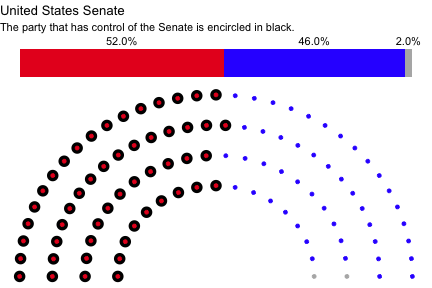
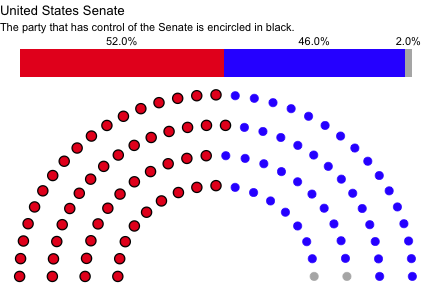
add size to geom_parliament_seats() parameters

diff --git a/README.md b/README.md
@@ -185,8 +185,8 @@ australia <- election_data %>%
 
 ```r
 au_rep <-ggplot(australia, aes(x, y, colour = party_short)) +
-  geom_parliament_seats() + 
-  geom_highlight_government(government == 1, colour = "pink") + 
+  geom_parliament_seats(size = 3.5) + 
+  geom_highlight_government(government == 1, colour = "pink", size = 5) + 
   draw_majoritythreshold(n = 76, 
                          label = TRUE, 
                          linesize = 0.5,
